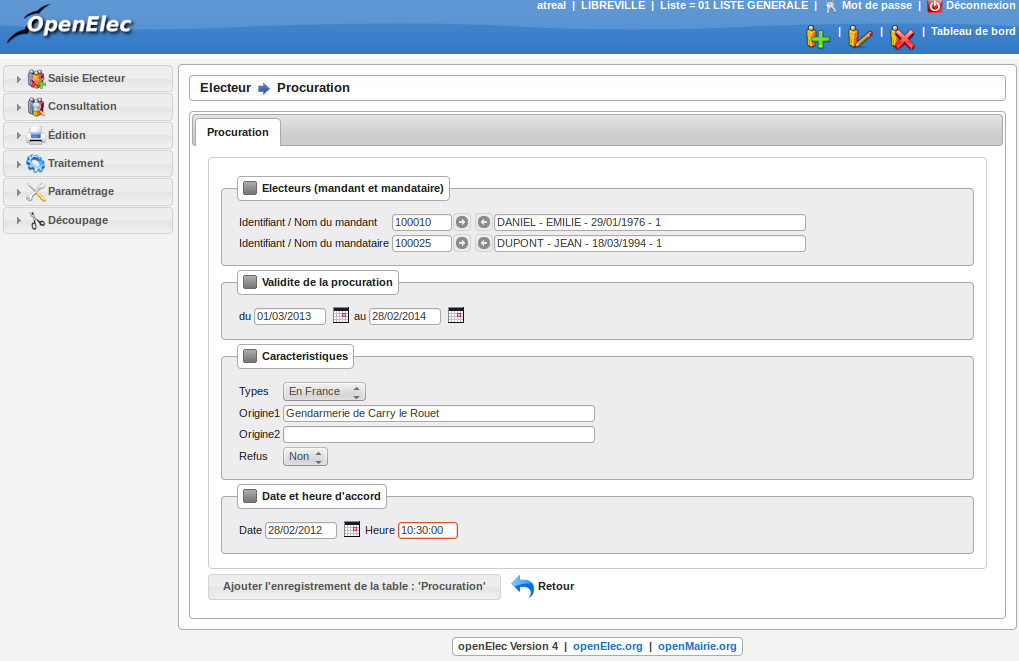
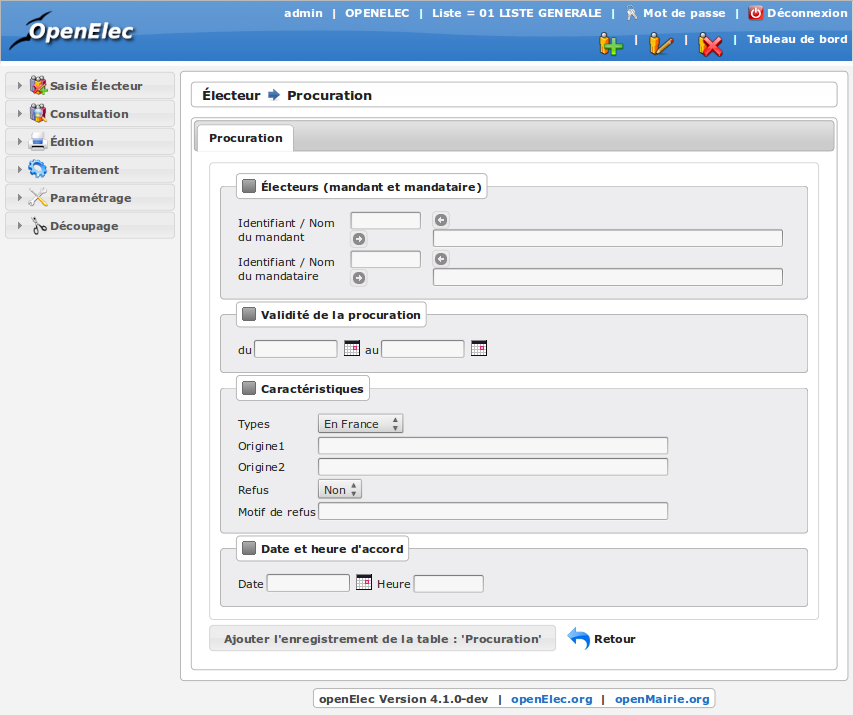
Mise à jour de la documentation suite aux évolution de la version 4.1.0

Changed region(s): [[0.0, 0.0, 1.0, 0.9985]]

diff --git a/source/manuel_utilisateur/traitements/module_commission.rst b/source/manuel_utilisateur/traitements/module_commission.rst
@@ -19,6 +19,7 @@ Pré-requis pour utiliser le module Commissions :
 
     * on doit connaître la date de la dernière commission.
 
+
 Editions préparatoire, de septembre à décembre
 ==============================================
 
@@ -34,7 +35,26 @@ Dans le cadre " Edition Des Mouvements A Presenter (rupture Par Bureau) " :
 
 .. figure:: module_commission.png
 
-    Ecran du module : Commissions
+    Écran du module : Commissions
+
+
+Saisie des membres de la commission
+===================================
+
+.. figure:: module_commission_membres.png
+
+    Membres des commissions
+
+Il permet la saisie du nom, prénom et adresse des membres.
+
+Convocation des membres à la commission
+=======================================
+
+Une fois les membres saisie il est possible de générer un fichier au format pdf contenant un courrier de convocation pour chacun d'eux.
+
+.. figure:: module_commission_convocation.png
+
+    Édition du courrier de convocation
 
 Séance de travail de la commission
 ==================================
@@ -50,7 +70,8 @@ Application des décisions de la commission
 
 Les mouvements refusés par la commission doivent être supprimés
 d’openElec. Pour chaque mouvement rejeté, il faut effectuer la recherche
-du mouvement dans son tableau puis le supprimer manuellement.
+du mouvement dans son tableau, éventuellement éditer le courrier de refus du mouvement
+puis le supprimer manuellement.
 
 Vous pouvez accédez respectivement aux tableaux des mouvements
 d'inscription, de modification et de radiation directement

diff --git a/source/manuel_utilisateur/traitements/module_jury_d_assises.rst b/source/manuel_utilisateur/traitements/module_jury_d_assises.rst
@@ -49,9 +49,11 @@ Confirmer un membre du jury
 ---------------------------
 
 Pour définir un électeur tiré au sort comme un membre effectif du jury,
-rendez-vous dans la rubrique " Saisie " puis " Carte en retour / Juré ".
-Recherchez l'électeur puis éditez sa fiche en cliquant sur le bouton
+rendez-vous sur le tableau des électeurs tirés au sort puis éditez sa fiche en cliquant sur le bouton
 modifier (représenté par une icone de crayon).
+
+.. note:: Il est possible d'éditer ces information dans la fiche électeur
+          via le lien "Informations pour le jury d'assises" du menu contextuel.
 
 Enfin remplissez la section " Juré d'assises ". Le champ " Date préfecture "
 correspond à la date à laquelle la préfecture a donné son accord pour la

diff --git a/source/manuel_utilisateur/utilisateur_saisies/procuration.rst b/source/manuel_utilisateur/utilisateur_saisies/procuration.rst
@@ -19,11 +19,18 @@ Saisie des informations
 
     Saisie d'une procuration
 
+Une procuration peut être refusée, un motif de refus pourra être saisie,
+elle n'apparaîtra pas dans les éditions pdf de la liste électorale,
+de la liste des procuration et du registre des procuration.
+
 Validation des informations
 ===========================
 
 Une fois toutes les informations saisies, vous pouvez valider le
 formulaire pour enregistrer la procuration.
+
+Le refus d'une procuration entraine l'affichage sur le tableau d'un lie vers
+l'édition d'un courrier de refus adressé
 
 Message de Vérification : Un mandant ne donne qu’une procuration pour une
 même période. Un mandataire a au plus 2 mandats pour une même période dont

diff --git a/source/manuel_utilisateur/consultation/index.rst b/source/manuel_utilisateur/consultation/index.rst
@@ -22,7 +22,7 @@ La rubrique consultation vous permet de consulter les listes suivantes :
    * traces et editions.
 
 Pour chaque liste, vous disposez d'une fonction de recherche permettant
-de trouver un électeur par son prénom, nom ou même identifiant openElec.
+de trouver un électeur par son prénom, nom, sa date de naissance ou même son identifiant openElec.
 
 Lorsque cela est possible vous trouverez également à gauche de chaque
 élément de la liste des boutons permettant de réaliser diverses actions,
